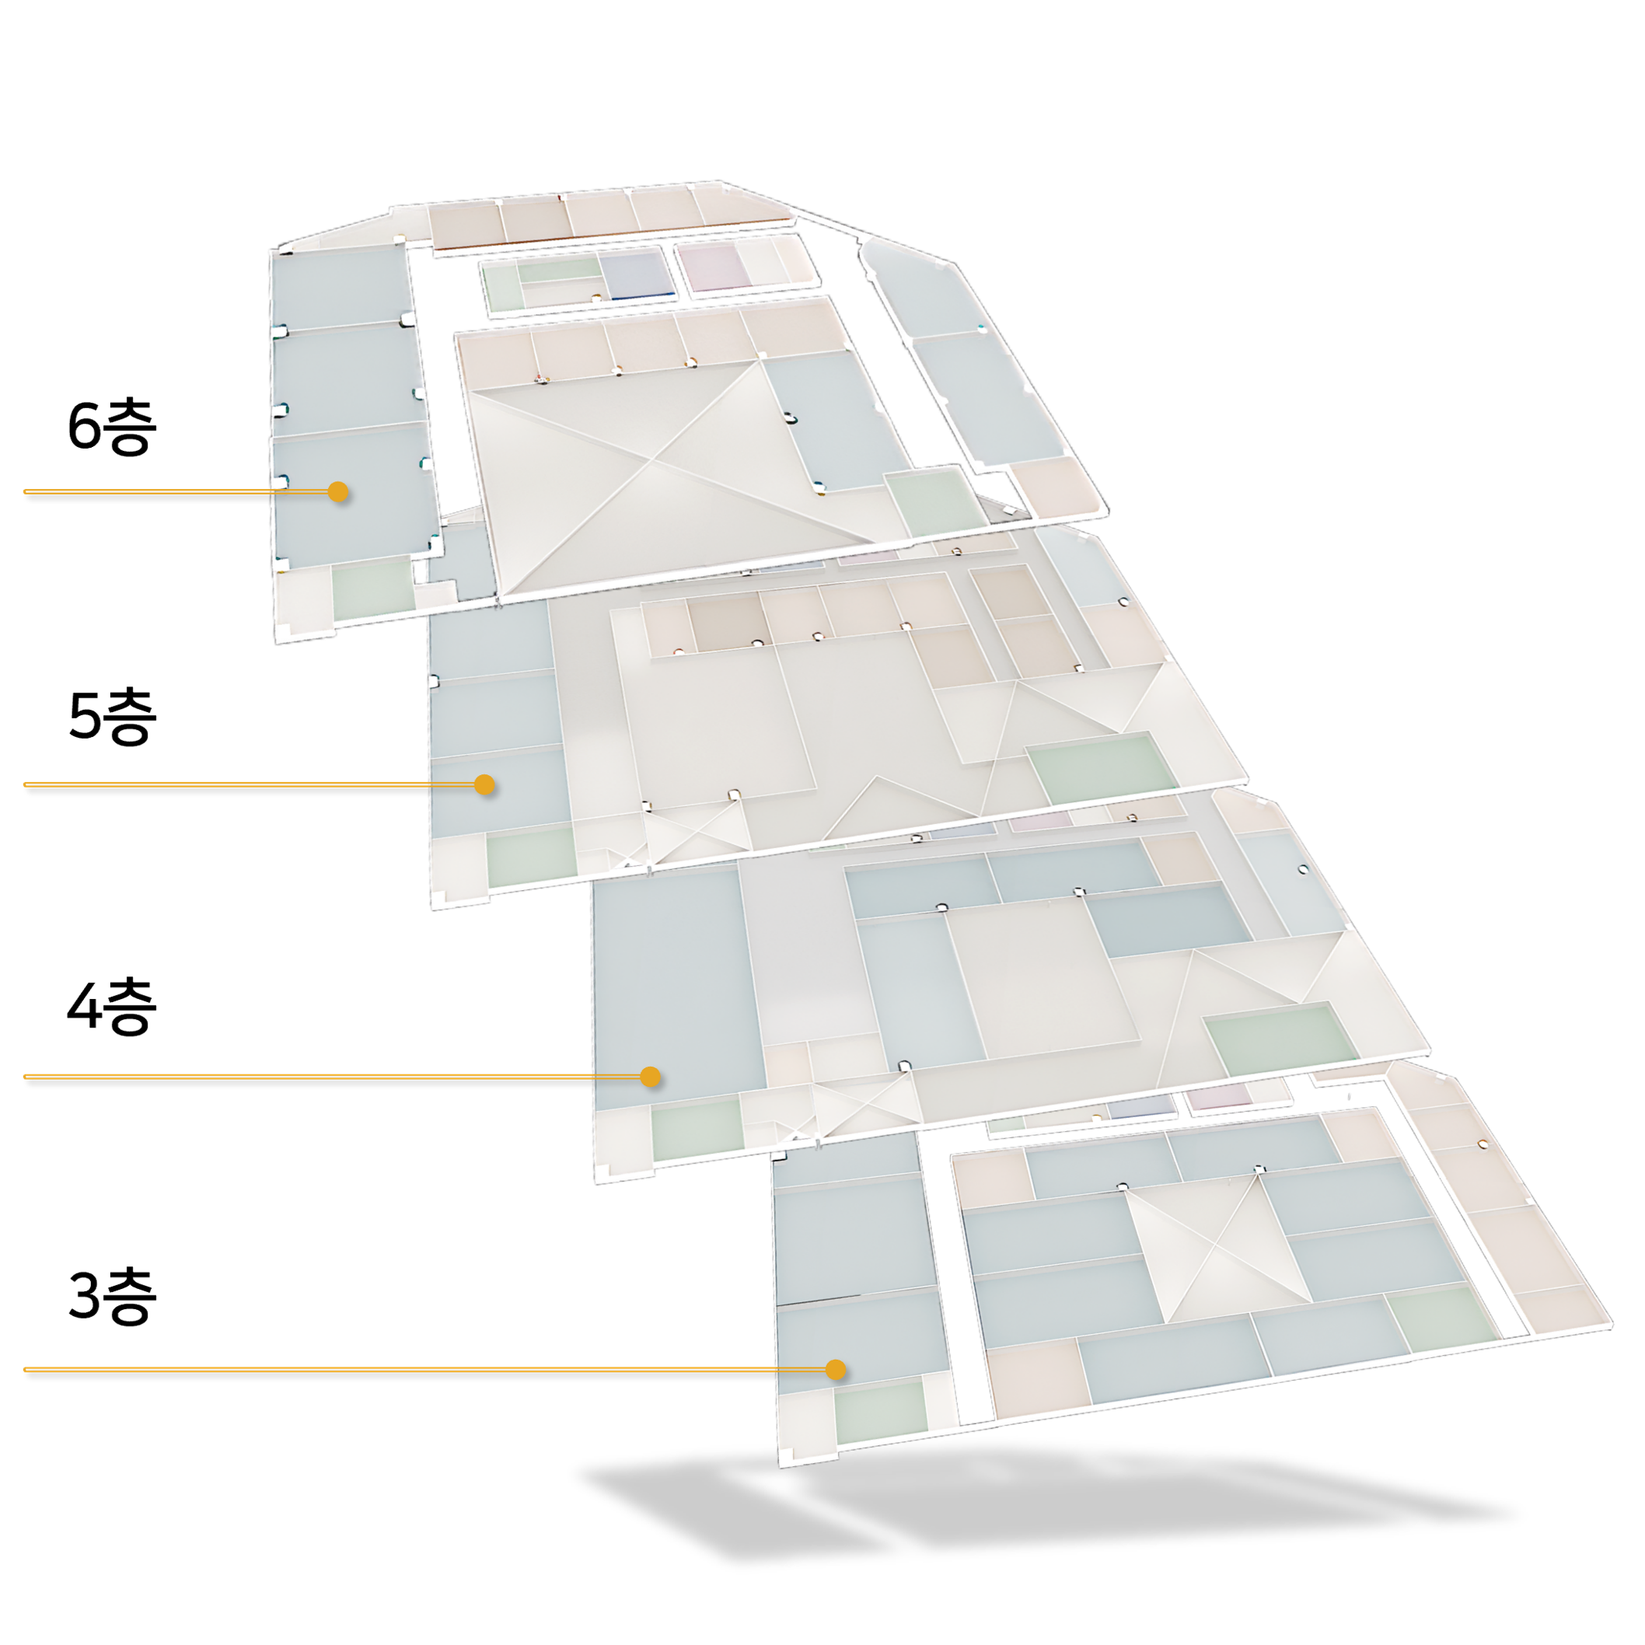
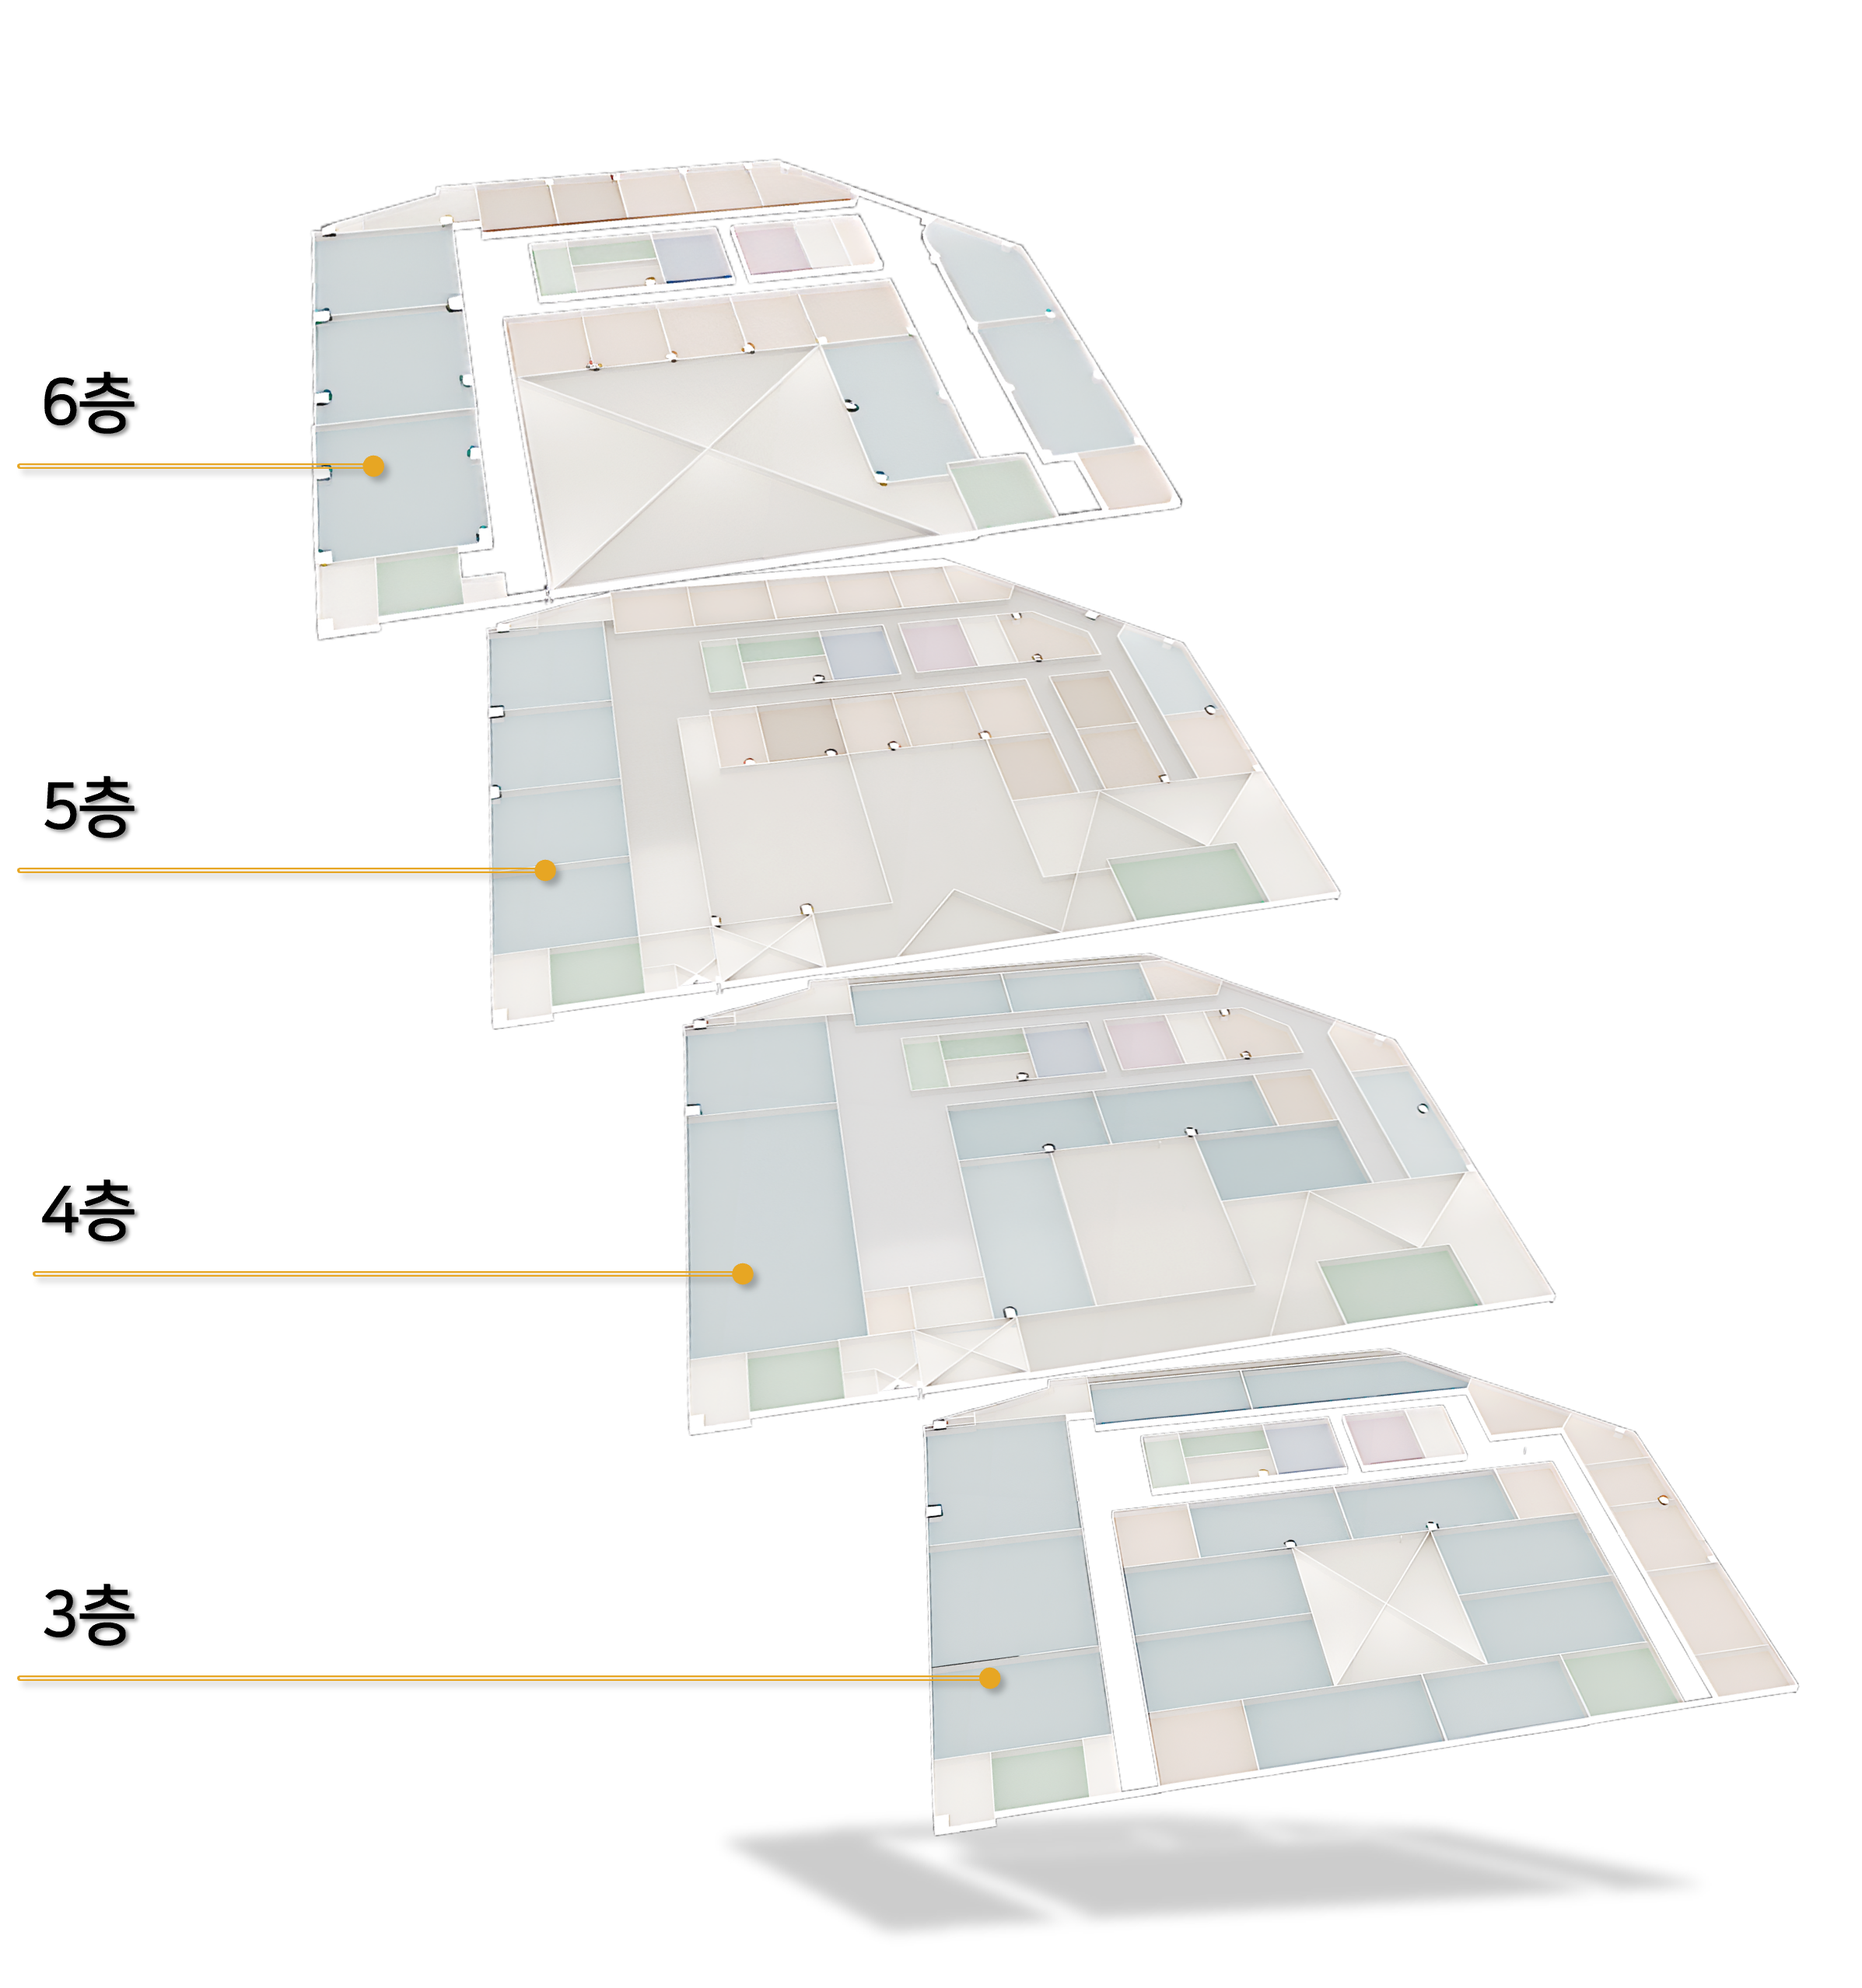
[feat] 도면도에 센서 나타내기
1. Main.js에서 도면도 수정(floorplan.png)
2. 도면도 내 위치에 맞춰 센서 표시함
3. 아직 백엔드 연동 전

Changed region(s): [[0.0, 0.0624, 0.9981, 0.9981], [0.0312, 0.3743, 0.0936, 0.4679], [0.5614, 0.156, 0.5926, 0.1871]]

diff --git a/src/pages/Main.js b/src/pages/Main.js
@@ -15,6 +15,9 @@ function Main() {
   const [forecast2, setForecast2] = useState(null);
   const [loading, setLoading] = useState(true);
 
+  // const canvasRef = useRef(null);
+  const imageRef = useRef(null);
+
   const handleBuildingClick = (building, buildingInfo) => {
     if (building == "신공학관") {
       setIsFadingOut(true);
@@ -61,7 +64,6 @@ function Main() {
       return "오늘의 날씨에 맞게 계획을 세워보세요!";
     }
   };
-
   // Format the date and time
   const formatDate = (date) => {
     const days = ["일", "월", "화", "수", "목", "금", "토"];
@@ -73,7 +75,6 @@ function Main() {
     const minutes = String(date.getMinutes()).padStart(2, "0");
     return `${year}년 ${month}월 ${day}일 ${dayOfWeek} PM ${hours}:${minutes}`;
   };
-
   // Fetch weather data
   useEffect(() => {
     const fetchData = async () => {
@@ -90,7 +91,6 @@ function Main() {
     };
     fetchData();
   }, []);
-
   // Update time every minute
   useEffect(() => {
     const timer = setInterval(() => setDateTime(new Date()), 60000);
@@ -98,30 +98,101 @@ function Main() {
   }, []);
 
   //*******CANVAS*******//
-  const canvasRef = useRef(null);
   // 신공학관 클릭 후 도면도를 클릭하면 좌표를 표시하는 함수
-  const handleCanvasClick = (event) => {
+  /*const handleCanvasClick = (event) => {
     const canvas = canvasRef.current;
     const ctx = canvas.getContext("2d");
+
     // canvas 내의 클릭 위치 계산
     const rect = canvas.getBoundingClientRect();
     const x = event.clientX - rect.left;
     const y = event.clientY - rect.top;
-    // 좌표에 원을 그려 좌표 표시
+    //좌표를 콘솔에 출력함
+    console.log("Clicked coordinates:", x, y);
+
+    // 좌표에 도형을 그려 표시
     ctx.fillStyle = "red";
     ctx.beginPath();
     ctx.arc(x, y, 5, 0, 2 * Math.PI);
     ctx.fill();
+
+    // 좌표값을 텍스트로 표시
+    ctx.font = "12px Arial";
+    ctx.fillText(`(${x.toFixed(1)}, ${y.toFixed(1)})`, x + 10, y - 10);
   };
-  // canvas 설정
+  // canvas와 이미지의 크기 및 위치 동기화
   useEffect(() => {
-    const canvas = canvasRef.current;
-    if (canvas) {
-      // canvas가 존재할 때만 크기 설정
-      canvas.width = canvas.offsetWidth;
-      canvas.height = canvas.offsetHeight;
-    }
-  }, []);
+    const updateCanvasSize = () => {
+      const canvas = canvasRef.current;
+      const image = imageRef.current;
+      if (canvas && image) {
+        canvas.width = image.clientWidth;
+        canvas.height = image.clientHeight;
+      }
+    };
+    updateCanvasSize();
+
+    window.addEventListener("resize", updateCanvasSize);
+    return () => window.removeEventListener("resize", updateCanvasSize);
+  }, []);*/
+
+  // 좌표를 저장할 상태
+  const [coordinates, setCoordinates] = useState([
+    { x: 137, y: 116 }, // 6144
+    { x: 366, y: 125 }, // 6119
+    { x: 184, y: 213 }, // 5147
+    { x: 192, y: 237 }, // 5145
+    { x: 262, y: 388 }, // 4142
+    { x: 464, y: 442 }, // 3115
+    { x: 488, y: 482 }, // 3173
+  ]);
+  const [hoveredIndex, setHoveredIndex] = useState(null);
+
+  // 도형을 표시하는 함수
+  const renderShapes = () => {
+    return coordinates.map((coord, index) => (
+      <div
+        key={index}
+        onMouseEnter={() => setHoveredIndex(index)} // 마우스 진입 시 인덱스 설정
+        onMouseLeave={() => setHoveredIndex(null)} // 마우스 나가면 초기화
+        style={{
+          position: "absolute",
+          top: `${coord.y}px`,
+          left: `${coord.x}px`,
+          width: "16px",
+          height: "16px",
+          backgroundColor: "red",
+          borderRadius: "50%",
+          transform: "translate(-50%, -50%)", // 중앙 정렬
+          zIndex: 10,
+        }}
+        className="animated-shape" // 애니메이션 클래스 추가
+      >
+        <div className="ring"></div>
+        <div className="ring"></div>
+        {/* 호버 시 표시할 박스 */}
+        {hoveredIndex === index && (
+          <div
+            style={{
+              position: "absolute",
+              top: "30px",
+              left: "30px",
+              width: "120px",
+              padding: "10px",
+              backgroundColor: "white",
+              border: "1px solid #ccc",
+              boxShadow: "0 2px 5px rgba(0, 0, 0, 0.3)",
+              borderRadius: "8px",
+              zIndex: 20,
+            }}
+          >
+            <p style={{ margin: 0 }}>텍스트나 이미지 추가 가능</p>
+          </div>
+        )}
+      </div>
+    ));
+  };
+
   return (
     <div>
       <Header />
@@ -280,27 +351,51 @@ function Main() {
                   <img
                     src="/Main/floorplan.png"
                     alt="신공학관 도면도"
+                    ref={imageRef}
                     style={{
                       width: "640px",
                       height: "640px",
                     }}
                   />
-                  <canvas
-                    ref={canvasRef}
-                    onClick={handleCanvasClick}
-                    style={{
-                      position: "absolute",
-                      top: 0,
-                      left: 0,
-                      width: "100%",
-                      height: "100%",
-                      zIndex: 2,
-                      pointerEvents: "auto",
-                    }}
-                  />
+                  {renderShapes()}
                 </div>
               </div>
             )}
+            <style jsx>{`
+              .animated-shape {
+                position: relative;
+              }
+              /* 도형 주위의 확산 링 */
+              .ring {
+                position: absolute;
+                border: 2px solid rgba(255, 0, 0, 0.5);
+                border-radius: 50%;
+                width: 36px;
+                height: 36px;
+                top: 50%;
+                left: 50%;
+                transform: translate(-50%, -50%);
+                animation: pulse 1.5s infinite;
+                opacity: 0;
+              }
+              /* 두 번째 링을 조금 더 크게 설정하고 딜레이 추가 */
+              .ring:nth-child(2) {
+                width: 52px;
+                height: 52px;
+                animation-delay: 0.75s;
+              }
+              /* 확산 효과 애니메이션 */
+              @keyframes pulse {
+                0% {
+                  transform: translate(-50%, -50%) scale(0.5);
+                  opacity: 1;
+                }
+                100% {
+                  transform: translate(-50%, -50%) scale(1.5);
+                  opacity: 0;
+                }
+              }
+            `}</style>
           </div>
 
           {/* 오른쪽 날씨 및 로그 섹션 */}
